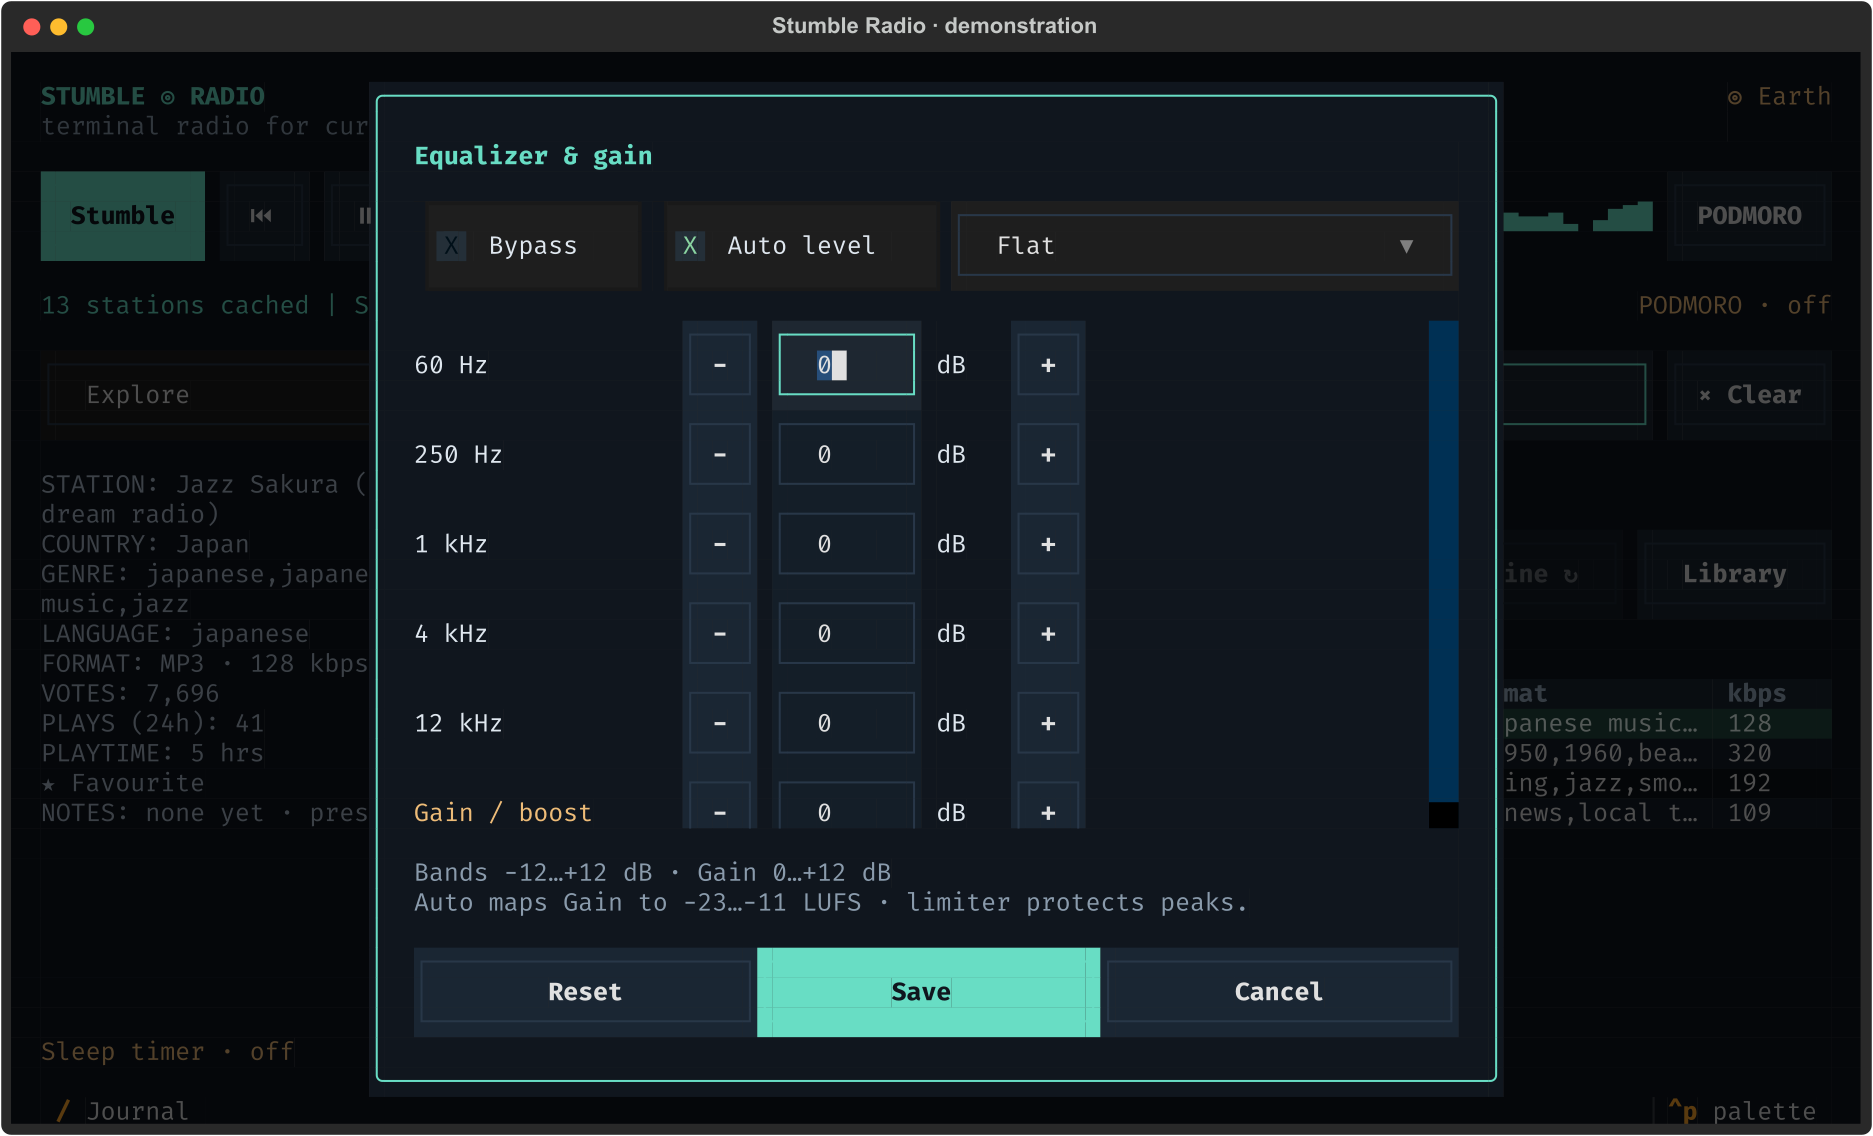
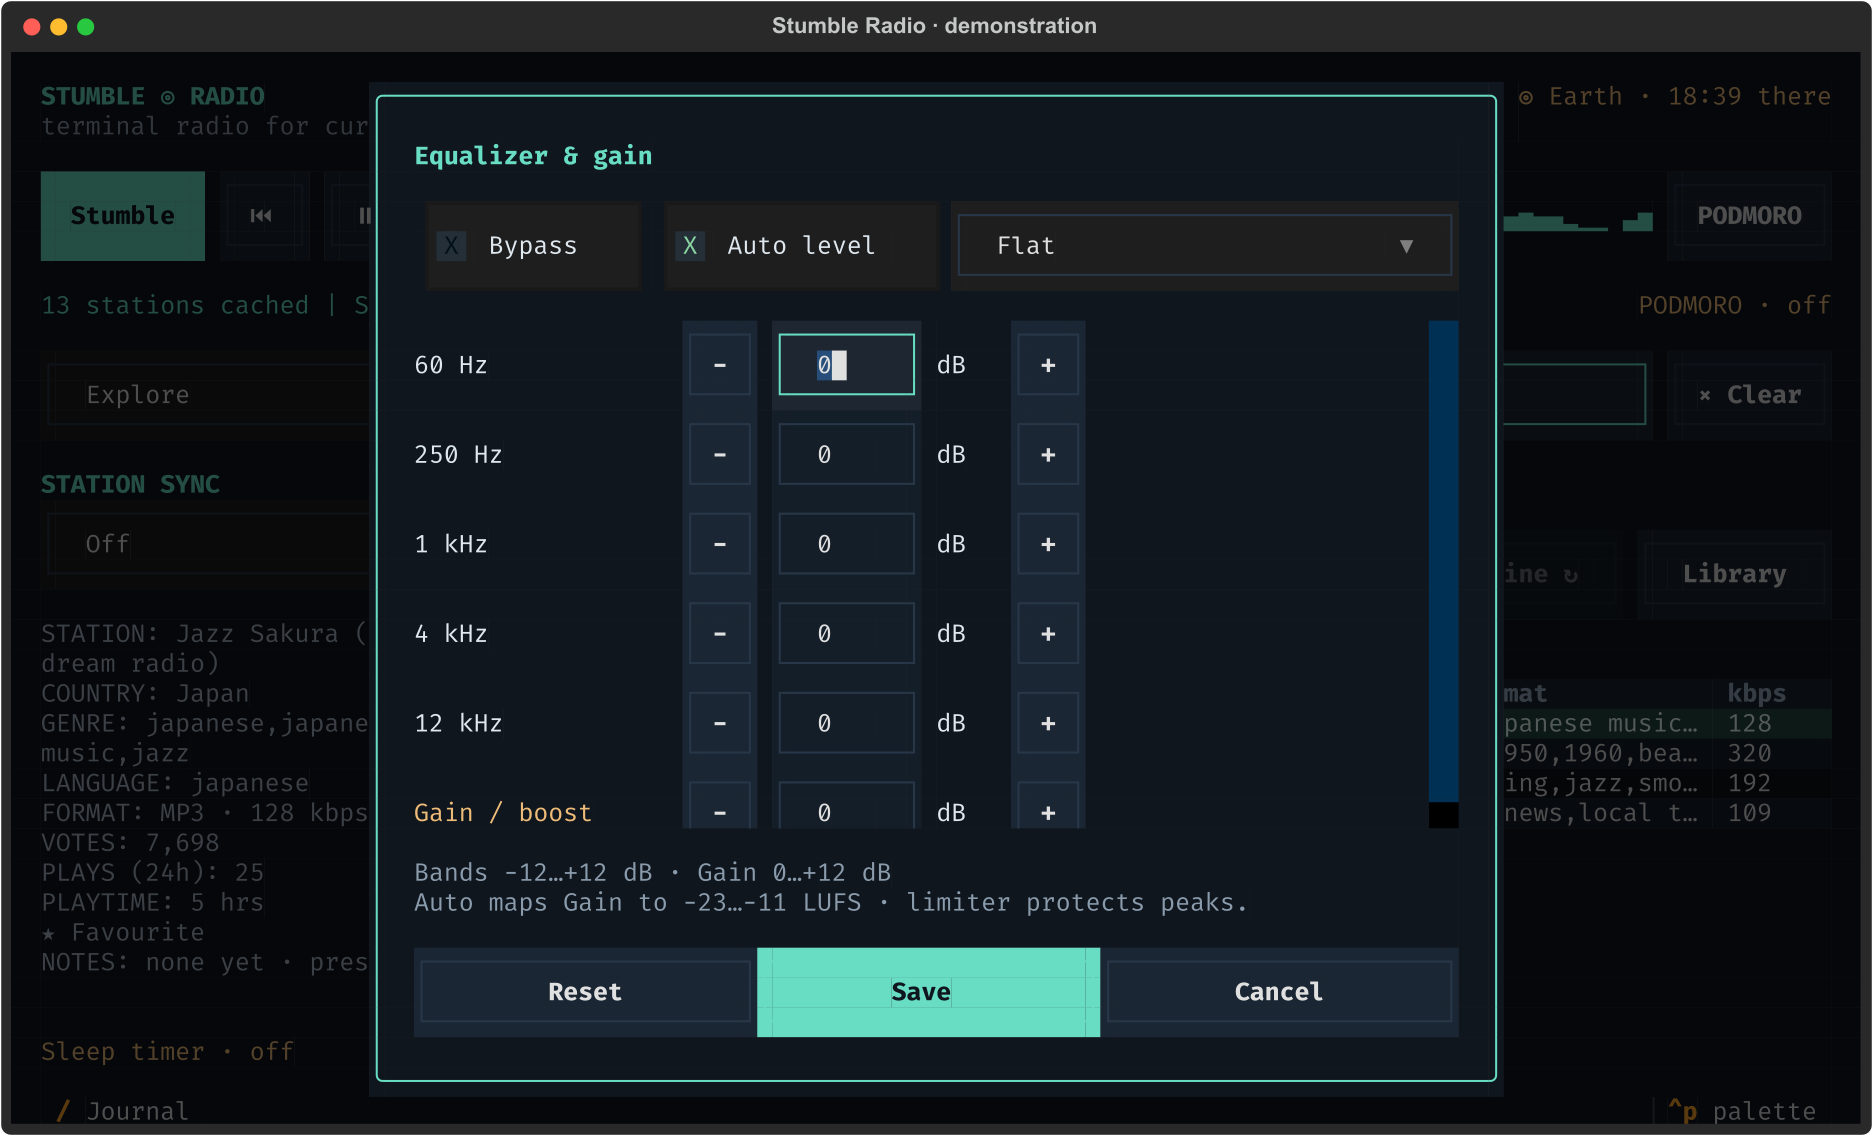
docs: regenerate interface screenshots with station sync demo

diff --git a/scripts/screenshots.py b/scripts/screenshots.py
@@ -14,11 +14,12 @@ import sys
 import time
 from datetime import datetime, timedelta
 from pathlib import Path
+from uuid import NAMESPACE_DNS, uuid5
 
 ROOT = Path(__file__).resolve().parent.parent
 sys.path.insert(0, str(ROOT / "src"))
 
-from textual.widgets import Button, DataTable, Input, Static, TabbedContent
+from textual.widgets import Button, DataTable, Input, Select, Static, TabbedContent
 
 from stumble_radio.announcements import AudioLibrary
 from stumble_radio.app import StumbleRadio
@@ -65,6 +66,18 @@ STATION_NAMES = [
 ]
 REAL_DB_PATH = Path.home() / ".local" / "share" / "stumble-radio" / "radio.sqlite3"
 
+# Fallback specs for catalogue names the real database no longer carries.
+SYNTH_SPECS = {
+    "NRG Radio": {
+        "station": {
+            "country": "Kenya", "cc": "KE", "state": "Nairobi",
+            "lang": "swahili,english", "tags": "pop,hip hop,afrobeat,afrobeats",
+            "codec": "MP3", "bitrate": 128,
+        },
+        "votes": 410, "plays": 260, "lat": -1.2921, "lon": 36.8219,
+    },
+}
+
 
 def load_real_specs() -> list[dict]:
     """Pull the curated demonstration stations straight out of a real catalogue."""
@@ -90,11 +103,20 @@ def load_real_specs() -> list[dict]:
             "bitrate": r[9], "votes": r[10], "plays": r[11],
             "lat": r[12], "lon": r[13],
         }
-    return list(specs.values())
-    missing = set(STATION_NAMES) - {s["name"] for s in specs}
+    for name, spec in SYNTH_SPECS.items():
+        if name not in specs:
+            slug = name.lower().replace(" ", "-").replace("!", "").replace(".", "")
+            specs[name] = {
+                "uuid": uuid5(NAMESPACE_DNS, f"demo:{slug}").hex,
+                "name": name,
+                "url": f"https://streams.example.org/{slug}",
+                "votes": spec["votes"], "plays": spec["plays"],
+                "lat": spec["lat"], "lon": spec["lon"], **spec["station"],
+            }
+    missing = set(STATION_NAMES) - {s["name"] for s in specs.values()}
     if missing:
         raise SystemExit(f"Stations missing from {REAL_DB_PATH}: {sorted(missing)}")
-    return specs
+    return [specs[name] for name in STATION_NAMES if name in specs]
 
 
 STATIONS = load_real_specs()
@@ -332,10 +354,12 @@ async def main_captures(app, pilot) -> None:
     await shot(app, "teleport-spin")
     app.update_destination_line()
 
-    # --- discovery.png: landed in Japan, Music-only, Jazz Sakura playing.
+    # --- discovery.png: landed in Japan, Music-only, Jazz Sakura playing,
+    #     with Breakfast Shows station sync armed in the sidebar.
     sakura = by_name["Jazz Sakura (asia dream radio)"]
     app.destination, app.destination_landed = "Japan", True
     app.pool = "Music-only"
+    app.query_one("#sync-by", Select).value = "breakfast"
     lately(app, sakura)
     app.media_title = "Tatsuro Yamashita — Ride on Time"
     app.track_metadata = {"icy-title": "Tatsuro Yamashita - Ride on Time"}
@@ -346,6 +370,8 @@ async def main_captures(app, pilot) -> None:
     await pilot.pause()
     await shot(app, "discovery")
     app.pool = "Anywhere"
+    app.query_one("#sync-by", Select).value = ""
+    app.set_daypart("")
     app.destination, app.destination_landed = "Earth", False
     app.update_destination_line()
     lately(app, app.stations[0])
